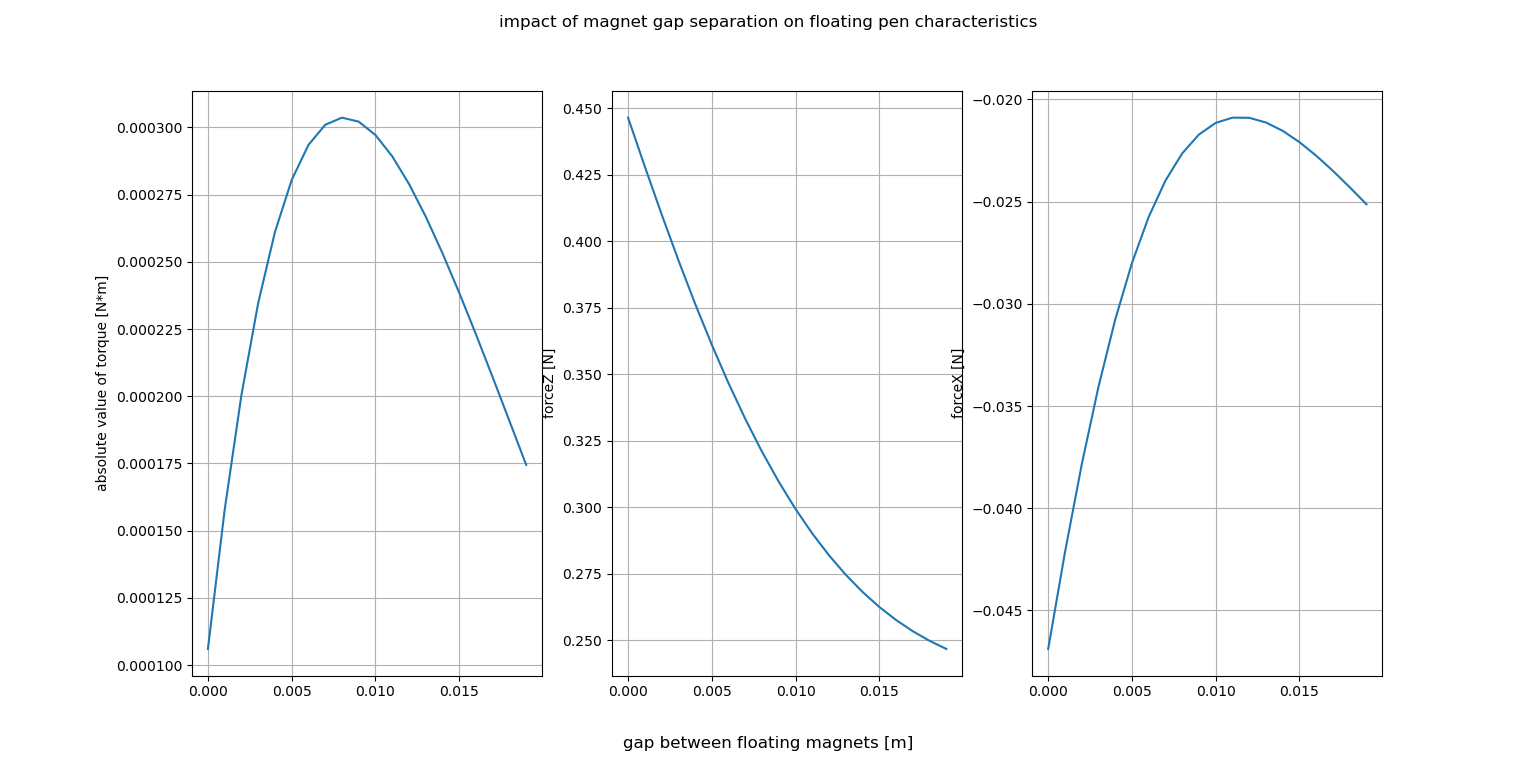
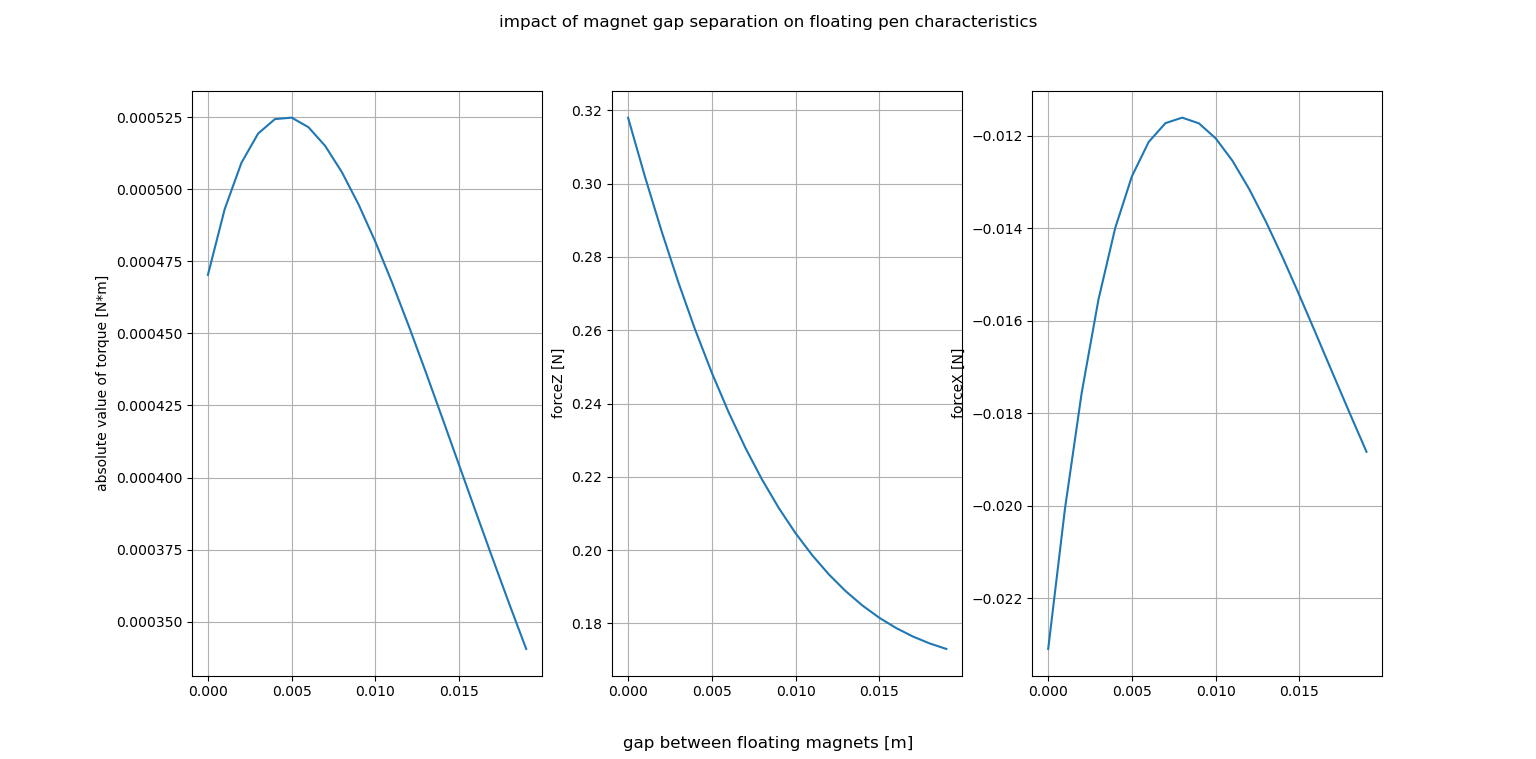
add plotted figures + add theoretical test case

diff --git a/background/magneticForceOnMagnet.py b/background/magneticForceOnMagnet.py
@@ -54,7 +54,7 @@ def plotSysB(
     ax.set_aspect('equal')
     # fig.colorbar(sPlot.lines, ax = ax) # not sure what this returns tbh...
     
-def validateSuperposition(showPlots = True):
+def experiment1(showPlots = True):
     # cannot apply getFT onto magpy collection. Will need to see if principle of superposition applies (try 2 magnets stacked & 1 magnet of double size)
         # YES THIS GENERALLY SEEMS TRUE
     # penMagnetsCol = magpy.Collection(penMagnet1, penMagnet2)
@@ -96,15 +96,17 @@ def validateSuperposition(showPlots = True):
     
     return
 
-def experiment1(showPlot = True):
+def experiment2(showPlot = True):
+    hoverHeight = 0.0025 + +0.005 + 0.0105
     penMagnet1 = magpy.magnet.Cylinder(
-        polarization=(0,0,1), dimension=(0.01, 0.005), position = (0, 0.00, 0.014),
+        polarization=(0,0,1), dimension=(0.01, 0.005), position = (0, 0.00, hoverHeight),
         orientation = R.from_rotvec((0, 15, 0), degrees = True))
     penMagnet1.meshing = 15
 
     magnetRing1 = magnetRing(0.06, 0, 0, 12)
     magnetRing2 = magnetRing(0.06, 0, -0.02, 12)
     c = magnetRing1.mCol + magnetRing2.mCol
+    # c.show()
 
     F1, T1 = getFT(c, penMagnet1)
 
@@ -118,7 +120,7 @@ def experiment1(showPlot = True):
     for lv1 in range(20):
         gap = 0.001*lv1
         penMagnet2 = magpy.magnet.Cylinder(
-            polarization=(0,0,1), dimension=(0.01, 0.005), position = (0, 0.00, 0.014 + 0.005 + gap), # need to fix position, translate..
+            polarization=(0,0,1), dimension=(0.01, 0.005), position = (0, 0.00, hoverHeight + 0.005 + gap),
             # orientation = R.from_rotvec((0, 15, 0), degrees = True)
             )
         penMagnet2.rotate_from_angax(angle = 15, axis = 'y', anchor = (0, 0, 0.014), degrees = True)
@@ -153,11 +155,53 @@ def experiment1(showPlot = True):
     # pl.add_mesh(arrowT, color="yellow")
     # pl.show()
 
-def main():
-    # validateSuperposition()
+def experiment3():
+    hoverHeight = 0.0025 + 0.005 + 0.0105 + 0.0025# half magnet (datum is mid of 1st magnet ring) + thickness of plastic + hover height measured from plastic + half magnet
+    penMagnet1 = magpy.magnet.Cylinder(
+        polarization=(0,0,1), dimension=(0.01, 0.005), position = (0, 0.00, hoverHeight),
+        orientation = R.from_rotvec((0, 15, 0), degrees = True)
+        )
+    penMagnet2 = magpy.magnet.Cylinder(
+        polarization=(0,0,1), dimension=(0.01, 0.005), position = (0, 0.00, hoverHeight + 0.005),
+        )
+    penMagnet2.rotate_from_angax(angle = 15, axis = 'y', anchor = (0, 0, 0.014), degrees = True)
+    penMagnet1.meshing = 15
+    penMagnet2.meshing = 15
 
-    experiment1()
+    magnetRing1 = magnetRing(0.06, 0, 0, 12)
+    magnetRing2 = magnetRing(0.06, 0, -0.02, 12)
+    c1 = magnetRing1.mCol + magnetRing2.mCol
+    # c1.show()
+
+    magnetRing3 = magnetRing(0.06, 0, 0, 12)
+    c2 = magnetRing3.mCol
+    # c2.show()
+
+    F2, T2 = getFT(c2, penMagnet1) + getFT(c2, penMagnet2) 
+    F1, T1 = getFT(c1, penMagnet1) + getFT(c1, penMagnet2) 
+    print('forces', '2 rings', F1, '1 ring', F2)
+    print('torques', '2 rings', T1, '1 ring', T2)
+    print('OUTCOME 1: extra ring actually weakens field strength in z but massively increases strength of field')
     
+    sensorZPos = hoverHeight - 0.0025 - 0.0028 - 0.0063 # hoverheight - 1/2 thickness of magnet - hover height from top of secureEM - sensorPos from top of secureEM
+    B1 = magpy.getB(c1, [0, 0, sensorZPos])
+    B2 = magpy.getB(c2, [0, 0, sensorZPos])
+    print('2 rings', B1)
+    print('1 ring', B2)
+    print('OUTCOME 2: does not correspond to expected outcome. Expected 2 coil system to have stronger field. Ferrite core (lower down) must be magnetizing in permanent field, thus changing sensor readings')
+
+
+def main():
+    # validateSuperposition
+    # experiment1()
+
+    # validate stability of floating pen based on separation of floating magnets
+    # experiment2()
+
+    # what does the 2nd ring do?
+    experiment3()
+    
+    # compare 2 rings vs 1 stronger ring assuming approx same vertical force on magnet
     
 
 if __name__ == "__main__":
